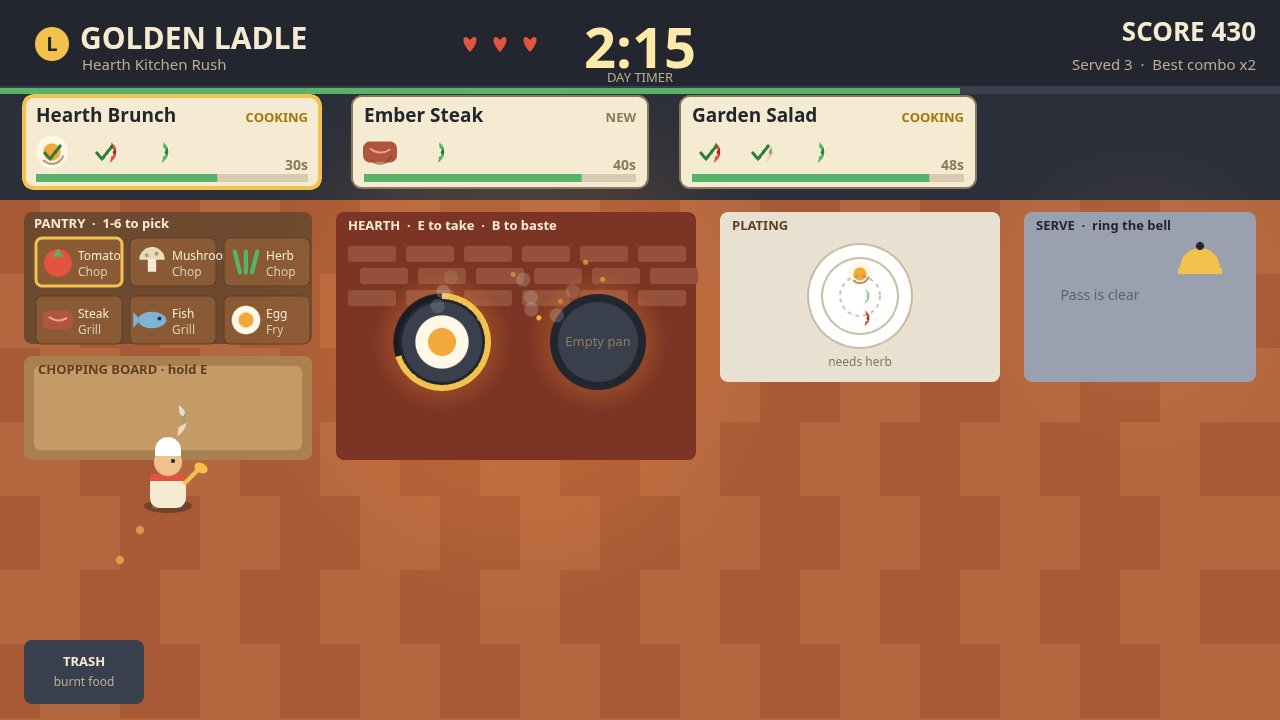
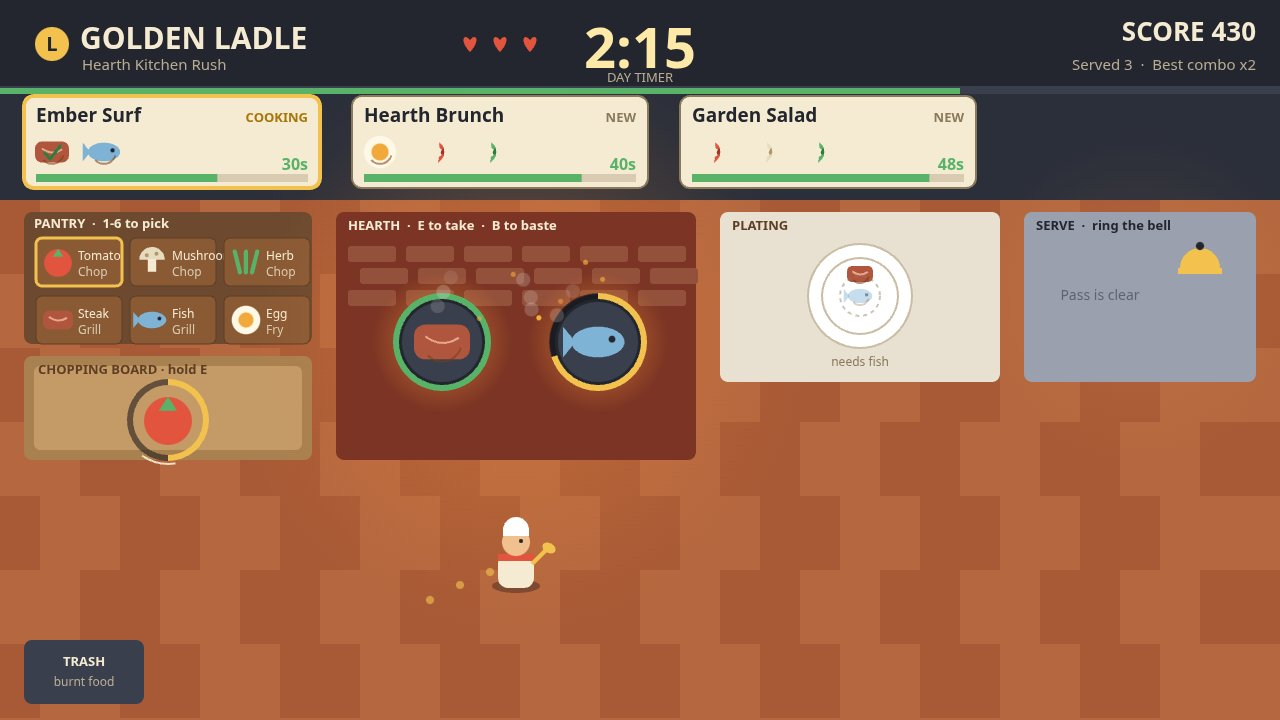
Golden Ladle v3: Rush Hour, 12 dishes, clearer HUD, re-staged shots
- Rush Hour: two 20s surges (60-80s, 120-140s) with faster ticket
  spawns, +25% tips, an orange banner and day-bar tint
- Menu grows 10 to 12: Ember Surf (steak+fish) and Harvest Feast
  (four-need big plate)
- HUD: ticket patience seconds bigger (16px) and colour-coded to
  its bar; Rush Hour banner under the clock
- Cover re-staged in Rush Hour with Harvest Feast mid-assembly;
  assembly now shows Ember Surf; rush shot features Harvest Feast
- Selftest 15/15 incl. rush window, rush serve +25% and Harvest
  Feast plating; determinism verified (main.ts twice identical)

diff --git a/game/src/shots.js b/game/src/shots.js
@@ -34,22 +34,23 @@ function seedEmbers(world) {
   }
 }
 
-/** The cover: mid-rush, combo x4, three tickets in three states — one
- *  READY (the chef carries the finished Ladle Special to the pass), one
- *  mid-assembly on the plate (Surf & Turf, herb still missing), one new —
- *  a pan sizzling, one near burn, a dish chopping, and the last serve still
- *  on the pass under its spotlight. */
+/** The cover: mid-Rush Hour (the orange banner is up, tips +25%), combo x4,
+ *  three tickets in three states — one READY (the chef carries the finished
+ *  Ladle Special to the pass), one mid-assembly on the plate (Harvest Feast,
+ *  the grilled fish still missing, its ghost on the plate), one new — a pan
+ *  sizzling, one near burn, a dish chopping, and the last serve still on the
+ *  pass under its spotlight. */
 function stageCover(world) {
   world.reset();
-  world.elapsed = 120;
-  world.dayLeft = 60;
+  world.elapsed = 130;
+  world.dayLeft = 50;
   world.score = 1890;
   world.combo = 4;
   world.bestCombo = 4;
   world.served = 12;
   world.tickets = [];
   setTicket(world, 0, 'ladle-special', 18, 45);
-  setTicket(world, 1, 'surf-turf', 22, 45);
+  setTicket(world, 1, 'harvest-feast', 22, 45);
   setTicket(world, 2, 'garden-salad', 48, 55);
   world.board.piece = rawPiece('tomato');
   world.board.progress = 0.6;
@@ -57,7 +58,7 @@ function stageCover(world) {
   world.burners[0].progress = 0.55;
   world.burners[1].piece = donePiece('fish', 'cooked');
   world.burners[1].burn = 4.2;
-  world.plate.pieces = [donePiece('steak', 'cooked'), donePiece('fish', 'cooked')];
+  world.plate.pieces = [donePiece('tomato', 'chopped'), donePiece('mushroom', 'chopped'), donePiece('egg', 'cooked')];
   world.passDish = { dishId: 'golden-catch', life: 2.5 };
   world.chef.x = 1000;
   world.chef.y = 520;
@@ -73,8 +74,10 @@ function stageCover(world) {
   seedEmbers(world);
 }
 
-/** Mid-assembly: a chopped mushroom waits on the board, an egg fries, and
- *  the plate is two thirds of a Hearth Brunch with the herb still missing. */
+/** Mid-assembly: Ember Surf, the new two-grill dish — a steak rests cooked
+ *  on one pan, a fish grills on the other, and the plate holds the steak
+ *  while its ghost waits for the fish. A tomato chops on the board for the
+ *  Hearth Brunch ticket behind it. */
 function stageAssembly(world) {
   world.reset();
   world.elapsed = 45;
@@ -84,17 +87,19 @@ function stageAssembly(world) {
   world.bestCombo = 2;
   world.served = 3;
   world.tickets = [];
-  setTicket(world, 0, 'hearth-brunch', 30, 45);
-  setTicket(world, 1, 'ember-steak', 40, 50);
+  setTicket(world, 0, 'ember-surf', 30, 45);
+  setTicket(world, 1, 'hearth-brunch', 40, 50);
   setTicket(world, 2, 'garden-salad', 48, 55);
-  world.board.piece = donePiece('mushroom', 'chopped');
-  world.burners[0].piece = rawPiece('egg');
-  world.burners[0].progress = 0.7;
-  world.plate.pieces = [donePiece('egg', 'cooked'), donePiece('tomato', 'chopped')];
-  world.chef.x = 168;
-  world.chef.y = 480;
+  world.board.piece = rawPiece('tomato');
+  world.board.progress = 0.5;
+  world.burners[0].piece = donePiece('steak', 'cooked');
+  world.burners[1].piece = rawPiece('fish');
+  world.burners[1].progress = 0.7;
+  world.plate.pieces = [donePiece('steak', 'cooked')];
+  world.chef.x = 516;
+  world.chef.y = 560;
   world.chef.dir = 1;
-  seedTrail(world, [[120, 560], [140, 530], [156, 505]]);
+  seedTrail(world, [[430, 600], [460, 585], [490, 572]]);
   seedEmbers(world);
 }
 
@@ -129,7 +134,8 @@ function stageServe(world) {
 }
 
 /** The rush: twenty seconds left, one heart, three tickets bleeding out,
- *  a pan about to burn and the board still chopping. */
+ *  a pan about to burn and the board still chopping. The top ticket is the
+ *  big Harvest Feast, two of its four pieces already on the plate. */
 function stageRush(world) {
   world.reset();
   world.elapsed = 160;
@@ -140,7 +146,7 @@ function stageRush(world) {
   world.served = 15;
   world.hearts = 1;
   world.tickets = [];
-  setTicket(world, 0, 'surf-turf', 8, 40);
+  setTicket(world, 0, 'harvest-feast', 8, 40);
   setTicket(world, 1, 'ladle-special', 12, 45);
   setTicket(world, 2, 'ember-steak', 6, 38);
   world.board.piece = rawPiece('herb');
@@ -149,7 +155,7 @@ function stageRush(world) {
   world.burners[0].burn = 4.5;
   world.burners[1].piece = rawPiece('fish');
   world.burners[1].progress = 0.8;
-  world.plate.pieces = [donePiece('steak', 'cooked'), donePiece('herb', 'chopped')];
+  world.plate.pieces = [donePiece('tomato', 'chopped'), donePiece('mushroom', 'chopped')];
   world.chef.x = 516;
   world.chef.y = 560;
   world.chef.dir = 1;

diff --git a/game/src/kitchen.js b/game/src/kitchen.js
@@ -18,6 +18,11 @@ export const BURN_GRACE_SECONDS = 5;
 export const BASTE_EXTRA_SECONDS = 4;
 export const BASTE_TIP = 15;
 export const GOLDEN_HOUR_SECONDS = 30;
+// Rush Hour: two 20-second surges when the dining room floods. Orders come
+// faster and every tip pays +25%, so the day has two peaks to play around.
+export const RUSH_HOUR_WINDOWS = [[60, 80], [120, 140]];
+export const RUSH_TIP_BONUS = 0.25;
+export const RUSH_SPAWN_SECONDS = 0.6;
 
 // Station rectangles on the 1280x720 floor, and the spot the chef stands on
 // to use each one. Stations hug the back wall; the chef works the floor below.
@@ -85,6 +90,7 @@ export class KitchenWorld {
     this.plate = { pieces: [], dishId: null };
     this.passDish = null;
     this.selectedPantry = 0;
+    this.inRush = false;
     this.trailClock = 0;
     this.particleClock = 0;
     for (let index = 0; index < MAX_TICKETS; index += 1) this.dealTicket();
@@ -107,6 +113,15 @@ export class KitchenWorld {
   /** The last 30 seconds of the day: every tip is doubled. */
   goldenHour() {
     return !this.over && this.dayLeft <= GOLDEN_HOUR_SECONDS;
+  }
+
+  /** True while the dining room floods: orders arrive faster, tips pay +25%. */
+  rushHour() {
+    if (this.over) return false;
+    for (const [start, end] of RUSH_HOUR_WINDOWS) {
+      if (this.elapsed >= start && this.elapsed < end) return true;
+    }
+    return false;
   }
 
   plateComponentKeys() {
@@ -205,6 +220,14 @@ export class KitchenWorld {
       events.push('game-over');
       return events;
     }
+
+    // Rush Hour arrives with a shout the first frame it starts.
+    const rushing = this.rushHour();
+    if (rushing && !this.inRush) {
+      this.addFloater(640, 200, 'RUSH HOUR! Tips +25%', '#ffd76a');
+      events.push('rush');
+    }
+    this.inRush = rushing;
 
     if (typeof keys.pantry === 'number') this.selectedPantry = keys.pantry;
 
@@ -389,16 +412,17 @@ export class KitchenWorld {
       const tip = Math.round(dish.price * 0.5 * (ticket.patience / ticket.max)) + (plateItem.basted ? BASTE_TIP : 0);
       const multiplier = 1 + 0.25 * Math.min(this.combo, 8);
       const golden = this.goldenHour();
-      const earned = Math.round((dish.price + tip) * multiplier * (golden ? 2 : 1));
+      const rush = this.rushHour();
+      const earned = Math.round((dish.price + tip) * multiplier * (golden ? 2 : 1) * (rush ? 1 + RUSH_TIP_BONUS : 1));
       this.score += earned;
       this.combo += 1;
       this.bestCombo = Math.max(this.bestCombo, this.combo);
       this.served += 1;
       this.passDish = { dishId: dish.id, life: 2.5 };
-      this.addFloater(1140, 240, golden ? `GOLDEN +${earned}` : `+${earned}`, '#ffd76a');
+      this.addFloater(1140, 240, golden ? `GOLDEN +${earned}` : rush ? `RUSH +${earned}` : `+${earned}`, '#ffd76a');
       chef.carrying.splice(chef.carrying.indexOf(plateItem), 1);
       this.tickets.splice(ticketIndex, 1);
-      this.spawnIn = this.elapsed > 120 ? 0.8 : 1.2;
+      this.spawnIn = this.rushHour() ? RUSH_SPAWN_SECONDS : this.elapsed > 120 ? 0.8 : 1.2;
       return ['serve'];
     }
     if (station === 'trash') {
@@ -503,7 +527,7 @@ export class KitchenWorld {
       this.spawnIn -= dt;
       if (this.spawnIn <= 0) {
         this.dealTicket();
-        this.spawnIn = this.elapsed > 120 ? 0.9 : 1.5;
+        this.spawnIn = this.rushHour() ? RUSH_SPAWN_SECONDS : this.elapsed > 120 ? 0.9 : 1.5;
       }
     }
   }

diff --git a/game/src/main.js b/game/src/main.js
@@ -146,8 +146,8 @@ function runSelfTest() {
   testWorld.step(0.2, { ...idle });
   check('day timer ends the game', testWorld.over === true && testWorld.overReason === 'day');
 
-  // 6. The menu grew, and Golden Hour doubles the serve.
-  check('menu has 10 dishes', DISHES.length === 10);
+  // 6. The menu grew to twelve, and Golden Hour doubles the serve.
+  check('menu has 12 dishes', DISHES.length === 12);
   const goldenWorld = new KitchenWorld(13);
   goldenWorld.elapsed = 155;
   goldenWorld.step(0.05, { ...idle });
@@ -168,6 +168,44 @@ function runSelfTest() {
   goldenWorld.chef.y = 402;
   goldenWorld.step(0.05, { ...idle, usePressed: true });
   check('golden hour serve pays double', goldenWorld.served === 1 && goldenWorld.score >= 700);
+
+  // 7. Rush Hour: two daily surges, faster respawns, +25% tips.
+  const rushWorld = new KitchenWorld(14);
+  rushWorld.elapsed = 65;
+  rushWorld.step(0.05, { ...idle });
+  check('rush hour runs at 65 seconds', rushWorld.rushHour());
+  rushWorld.elapsed = 100;
+  rushWorld.step(0.05, { ...idle });
+  check('rush hour is over by 100 seconds', !rushWorld.rushHour());
+  rushWorld.elapsed = 70;
+  rushWorld.tickets = [{ uid: 1, dishId: 'ladle-special', patience: 45, max: 45 }];
+  rushWorld.plate.pieces = [
+    { kind: 'piece', ingredient: 'steak', state: 'cooked', basted: false },
+    { kind: 'piece', ingredient: 'egg', state: 'cooked', basted: false },
+    { kind: 'piece', ingredient: 'tomato', state: 'chopped', basted: false },
+    { kind: 'piece', ingredient: 'herb', state: 'chopped', basted: false },
+  ];
+  rushWorld.refreshPlateDish();
+  rushWorld.chef.x = 860;
+  rushWorld.chef.y = 402;
+  rushWorld.step(0.05, { ...idle, usePressed: true });
+  rushWorld.chef.x = 1140;
+  rushWorld.chef.y = 402;
+  rushWorld.step(0.05, { ...idle, usePressed: true });
+  // Serve sets the rush respawn (0.6s); the same step's ticket aging ticks
+  // it down once, so it reads just under 0.6 here.
+  check('rush hour serve pays +25% and respawns fast', rushWorld.served === 1 && rushWorld.score >= 450 && rushWorld.spawnIn <= 0.6);
+
+  // 8. The new Harvest Feast plates from its four finished pieces.
+  const feastWorld = new KitchenWorld(15);
+  feastWorld.plate.pieces = [
+    { kind: 'piece', ingredient: 'tomato', state: 'chopped', basted: false },
+    { kind: 'piece', ingredient: 'mushroom', state: 'chopped', basted: false },
+    { kind: 'piece', ingredient: 'egg', state: 'cooked', basted: false },
+    { kind: 'piece', ingredient: 'fish', state: 'cooked', basted: false },
+  ];
+  feastWorld.refreshPlateDish();
+  check('plate completes Harvest Feast', feastWorld.plate.dishId === 'harvest-feast');
 
   check('no network requests were made', performance.getEntriesByType('resource').every((entry) => !entry.name.startsWith('http') || entry.name.startsWith(window.location.origin)));
   return lines;

diff --git a/game/src/hud.js b/game/src/hud.js
@@ -72,6 +72,7 @@ export function drawTopBar(ctx, world) {
   // Day clock, centre, big enough to feel.
   const lowTime = world.dayLeft <= 30;
   const golden = world.goldenHour();
+  const rush = world.rushHour();
   ctx.textAlign = 'center';
   ctx.fillStyle = lowTime && Math.floor(world.elapsed * 2) % 2 === 0 ? '#ff8a7a' : '#ffe9a8';
   ctx.font = 'bold 56px system-ui, sans-serif';
@@ -80,6 +81,10 @@ export function drawTopBar(ctx, world) {
     ctx.fillStyle = '#f2c14e';
     ctx.font = 'bold 15px system-ui, sans-serif';
     ctx.fillText('★ GOLDEN HOUR · TIPS x2 ★', 640, 78);
+  } else if (rush) {
+    ctx.fillStyle = '#ff9a5c';
+    ctx.font = 'bold 15px system-ui, sans-serif';
+    ctx.fillText('⚡ RUSH HOUR · TIPS +25% ⚡', 640, 78);
   } else {
     ctx.fillStyle = '#b9ac93';
     ctx.font = '13px system-ui, sans-serif';
@@ -89,7 +94,7 @@ export function drawTopBar(ctx, world) {
   const dayFraction = Math.max(0, world.dayLeft / 180);
   ctx.fillStyle = '#3a3f4d';
   ctx.fillRect(0, 88, 1280, 6);
-  ctx.fillStyle = golden ? '#f2c14e' : lowTime ? '#e2543e' : '#58b368';
+  ctx.fillStyle = golden ? '#f2c14e' : rush ? '#ff9a5c' : lowTime ? '#e2543e' : '#58b368';
   ctx.fillRect(0, 88, 1280 * dayFraction, 6);
 
   // Score, combo and hearts, right.
@@ -172,8 +177,10 @@ export function drawOrderBoard(ctx, world) {
     ctx.fillRect(x + 12, CARD_Y + CARD_H - 14, CARD_W - 24, 8);
     ctx.fillStyle = patienceColor(fraction);
     ctx.fillRect(x + 12, CARD_Y + CARD_H - 14, (CARD_W - 24) * fraction, 8);
-    ctx.fillStyle = '#8a7a5c';
-    ctx.font = 'bold 14px system-ui, sans-serif';
+    // Patience left, big and coloured to match its bar: the number a cook
+    // checks first when deciding which ticket to save.
+    ctx.fillStyle = patienceColor(fraction);
+    ctx.font = 'bold 16px system-ui, sans-serif';
     ctx.textAlign = 'right';
     ctx.fillText(`${Math.ceil(ticket.patience)}s`, x + CARD_W - 12, CARD_Y + CARD_H - 18);
   });
@@ -225,7 +232,7 @@ export function drawTitleOverlay(ctx, world) {
     'Move: WASD / arrows or click  ·  Use: E or Space (hold to chop)',
     'Baste with B to hold a burn and earn a tip  ·  1-6 picks a crate',
     'Serve fast: tips shrink as patience runs out. Three strikes and the day ends.',
-    'Last 30 seconds are Golden Hour: every tip pays double.',
+    'Rush Hour pays +25% twice a day. Golden Hour (last 30s) pays double.',
   ], 'Press Enter or click to start cooking');
   void world;
 }

diff --git a/game/src/recipes.js b/game/src/recipes.js
@@ -1,6 +1,8 @@
 // The pantry and the menu of Golden Ladle: what each ingredient needs before it
 // can go on a plate, and which combinations of finished pieces make a dish.
 // A component is written as "<ingredient>:<finish>", e.g. "steak:cooked".
+// Twelve dishes now: the two new ones are Ember Surf (both grill items, fast
+// to fire) and Harvest Feast (the big four-need plate for the late rush).
 
 export const INGREDIENTS = [
   { id: 'tomato', name: 'Tomato', color: '#e2543e', dark: '#a83226', process: 'chop', workSeconds: 1.2, hint: 'Chop' },
@@ -22,6 +24,8 @@ export const DISHES = [
   { id: 'fishermans-plate', name: "Fisherman's Plate", price: 170, needs: ['fish:cooked', 'egg:cooked', 'herb:chopped'] },
   { id: 'hearth-brunch', name: 'Hearth Brunch', price: 160, needs: ['egg:cooked', 'tomato:chopped', 'herb:chopped'] },
   { id: 'golden-chowder', name: 'Golden Chowder', price: 180, needs: ['fish:cooked', 'mushroom:chopped', 'egg:cooked'] },
+  { id: 'ember-surf', name: 'Ember Surf', price: 170, needs: ['steak:cooked', 'fish:cooked'] },
+  { id: 'harvest-feast', name: 'Harvest Feast', price: 210, needs: ['tomato:chopped', 'mushroom:chopped', 'egg:cooked', 'fish:cooked'] },
 ];
 
 export function ingredientById(id) {

diff --git a/README.md b/README.md
@@ -4,7 +4,7 @@
 [![rank](https://make.fun/badge/best-cooking-game-20261125-0137/fadlisick/golden-ladle-entry/rank.svg)](https://make.fun/bounty/best-cooking-game-20261125-0137/leaderboard?utm_source=github&utm_medium=readme&utm_campaign=best-cooking-game-20261125-0137)
 [![reward](https://make.fun/badge/best-cooking-game-20261125-0137/fadlisick/golden-ladle-entry/reward.svg)](https://make.fun/bounty/best-cooking-game-20261125-0137?utm_source=github&utm_medium=readme&utm_campaign=best-cooking-game-20261125-0137)
 
-A complete timed cooking game: run a warm hearth kitchen, work the order board, and serve dishes before their patience runs out. Grab ingredients from the pantry, chop them on the board, grill them on the hearth, plate the dish, and ring the bell at the serve pass. Baste with the golden ladle to hold a burn off and earn a tip. Ten dishes on the menu, and the last 30 seconds of the day are Golden Hour: every tip pays double.
+A complete timed cooking game: run a warm hearth kitchen, work the order board, and serve dishes before their patience runs out. Grab ingredients from the pantry, chop them on the board, grill them on the hearth, plate the dish, and ring the bell at the serve pass. Baste with the golden ladle to hold a burn off and earn a tip. Twelve dishes on the menu, Rush Hour twice a day (orders flood in, tips +25%), and the last 30 seconds of the day are Golden Hour: every tip pays double.
 
 ## Play it
 
